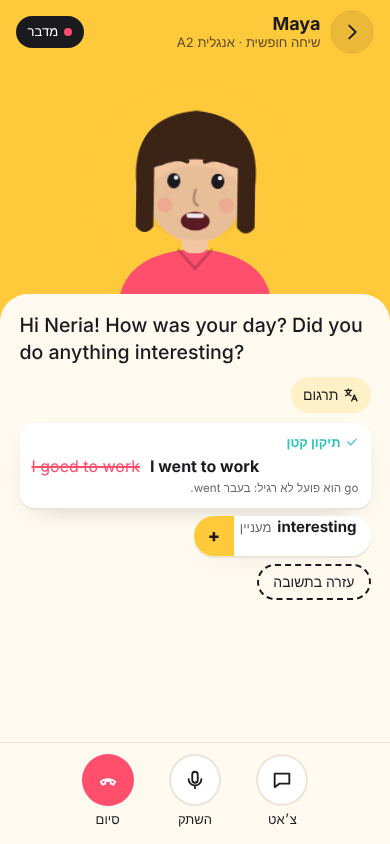
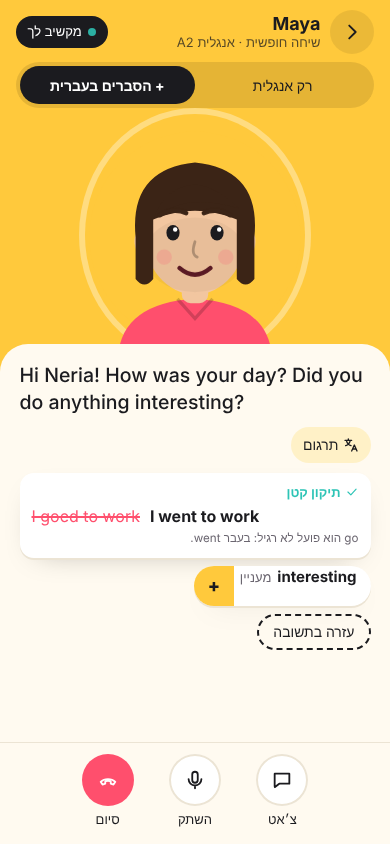
feat(call): in-call switch for target-only or native-language explanations
Claude-Session: https://claude.ai/code/session_01NhP6VXYLyFMTxotj3LeSiX

Changed region(s): [[0.0, 0.0, 1.0, 0.7701]]

diff --git a/src/components/ExplainToggle/ExplainToggle.tsx b/src/components/ExplainToggle/ExplainToggle.tsx
@@ -1,0 +1,43 @@
+import type { FC } from 'react';
+import clsx from 'clsx';
+import { langInfo } from '../../data/catalog';
+import type { ExplainMode, LangCode } from '../../types';
+import styles from './ExplainToggle.module.css';
+
+interface ExplainToggleProps {
+  value: ExplainMode;
+  native: LangCode;
+  target: LangCode;
+  label: string;
+  onChange: (mode: ExplainMode) => void;
+}
+
+/** Two-way switch: everything in the target language, or explanations in the native one. */
+const ExplainToggle: FC<ExplainToggleProps> = ({ value, native, target, label, onChange }) => {
+  const isHe = native === 'he';
+  const t = langInfo(target);
+  const n = langInfo(native);
+  const options: { id: ExplainMode; text: string }[] = [
+    { id: 'target', text: isHe ? `רק ${t.he}` : `${t.name} only` },
+    { id: 'mixed', text: isHe ? `+ הסברים ב${n.he}` : `+ ${n.name} explanations` },
+  ];
+
+  return (
+    <div className={styles.toggle} role="radiogroup" aria-label={label}>
+      {options.map((o) => (
+        <button
+          key={o.id}
+          type="button"
+          role="radio"
+          aria-checked={value === o.id}
+          className={clsx(styles.option, value === o.id && styles.on)}
+          onClick={() => value !== o.id && onChange(o.id)}
+        >
+          {o.text}
+        </button>
+      ))}
+    </div>
+  );
+};
+
+export default ExplainToggle;

diff --git a/src/components/Onboarding/Onboarding.tsx b/src/components/Onboarding/Onboarding.tsx
@@ -7,6 +7,7 @@ import { completeOnboarding } from '../../features/profile/profileSlice';
 import { startSession } from '../../features/session/sessionSlice';
 import type { CorrectionStyle, LangCode, Profile } from '../../types';
 import ApiKeyForm from '../ApiKeyForm';
+import ExplainToggle from '../ExplainToggle';
 import Avatar from '../Avatar';
 import ui from '../ui.module.css';
 import styles from './Onboarding.module.css';
@@ -153,6 +154,10 @@ const Onboarding: FC = () => {
                 {label}
               </button>
             ))}
+          </div>
+          <p className={ui.label}>{s.explainLabel}</p>
+          <div className={styles.explain}>
+            <ExplainToggle value={draft.explainMode} native={draft.native} target={draft.target} label={s.explainLabel} onChange={(explainMode) => patch({ explainMode })} />
           </div>
           <p className={ui.label}>{s.daily}</p>
           <div className={styles.row}>

diff --git a/src/components/Settings/Settings.tsx b/src/components/Settings/Settings.tsx
@@ -8,6 +8,7 @@ import { setView } from '../../features/session/sessionSlice';
 import { clearAll } from '../../services/storage';
 import type { CorrectionStyle, LangCode, Profile } from '../../types';
 import ApiKeyForm from '../ApiKeyForm';
+import ExplainToggle from '../ExplainToggle';
 import Avatar from '../Avatar';
 import Icon from '../Icon';
 import ui from '../ui.module.css';
@@ -127,6 +128,11 @@ const Settings: FC = () => {
             </button>
           ))}
         </div>
+      </div>
+
+      <div className={styles.field}>
+        <span className={ui.label}>{s.explainLabel}</span>
+        <ExplainToggle value={draft.explainMode} native={draft.native} target={draft.target} label={s.explainLabel} onChange={(explainMode) => patch({ explainMode })} />
       </div>
 
       <label className={styles.field}>

diff --git a/src/components/ExplainToggle/ExplainToggle.module.css b/src/components/ExplainToggle/ExplainToggle.module.css
@@ -1,0 +1,22 @@
+.toggle {
+  display: grid;
+  grid-template-columns: 1fr 1fr;
+  padding: 4px;
+  border-radius: 99px;
+  background: rgba(0, 0, 0, 0.1);
+}
+.option {
+  min-height: 38px;
+  padding: 0 10px;
+  border: 0;
+  border-radius: 99px;
+  background: transparent;
+  color: inherit;
+  font-size: 14px;
+  font-weight: 500;
+  white-space: nowrap;
+  overflow: hidden;
+  text-overflow: ellipsis;
+  transition: background 0.15s;
+}
+.on { background: #1b1b1f; color: #fff; font-weight: 700; }

diff --git a/src/components/Onboarding/Onboarding.module.css b/src/components/Onboarding/Onboarding.module.css
@@ -94,3 +94,4 @@
   background: linear-gradient(transparent, var(--bg) 30%);
 }
 .grow { flex: 1; }
+.explain { color: var(--ink); }

diff --git a/src/components/ExplainToggle/index.ts b/src/components/ExplainToggle/index.ts
@@ -1,0 +1,1 @@
+export { default } from './ExplainToggle';

diff --git a/README.md b/README.md
@@ -32,6 +32,8 @@ Most "AI tutor" apps are chatbots with a microphone button bolted on. Lingo is b
 - 🧑🏫 **Four animated tutors**, each with a personality and voice. The mouth is driven by the **actual amplitude** of the tutor's audio, with blinking, head motion and mood expressions.
 - 💬 **Optional chat panel**: type during a call and the tutor answers by voice. If the mic is unavailable, the app falls back to a full text chat.
 - 📝 **Live captions** for both sides, with a one-tap translation into your native language.
+- 🔀 **Explanation language switch**, available inside the call: everything in the target language, or keep the conversation in it while the tutor explains grammar and meanings in your native language.
+- 💾 **Every conversation is saved automatically.** If a call is cut off by an incoming phone call, an app switch or a reload, you can continue exactly where you stopped. Past conversations can be re-read and resumed at any time.
 
 **Learning**
 - 🎯 **CEFR levels A1–C2** that change vocabulary, speed and sentence length, plus a **spoken placement test**.
@@ -40,7 +42,7 @@ Most "AI tutor" apps are chatbots with a microphone button bolted on. Lingo is b
 - ✍ **Gentle corrections**: the tutor recasts mistakes out loud, and written correction cards explain them in your language. You can choose instant, gentle or none.
 - 📚 **Spaced-repetition vocabulary** (Leitner boxes). Save any new word from a call with one tap.
 - 🗂 **Mistakes notebook** that tracks repeated errors.
-- 🧠 **Tutor memory**: your saved words and open mistakes go into the next call's instructions, so the tutor brings them up again naturally. There's also a dedicated *Practise my words* call.
+- 🧠 **Tutor memory**: a short recap of what you shared in recent calls, plus your saved words and open mistakes, go into the next call's instructions, so the tutor brings them up again naturally. There's also a dedicated *Practise my words* call.
 - 📊 **Lesson summary** with a score, strengths, top mistakes and one concrete tip. XP, streaks and a daily minutes goal track progress.
 
 **Platform**
@@ -69,7 +71,7 @@ src/
 │   ├── Onboarding/  Home/  Vocab/  Summary/  Settings/  ApiKeyForm/ …
 ├── features/            # Redux Toolkit
 │   ├── ai/aiApi.ts      # RTK Query endpoints (chat turn, per-turn feedback, summary)
-│   ├── profile/  session/  progress/
+│   ├── profile/  session/  progress/  history/   # history is synced by a listener middleware
 ├── services/
 │   ├── gemini/liveTutor.ts  # Live API session: mic in, audio out, captions, resumption
 │   ├── gemini/text.ts       # JSON generation for feedback & summaries
